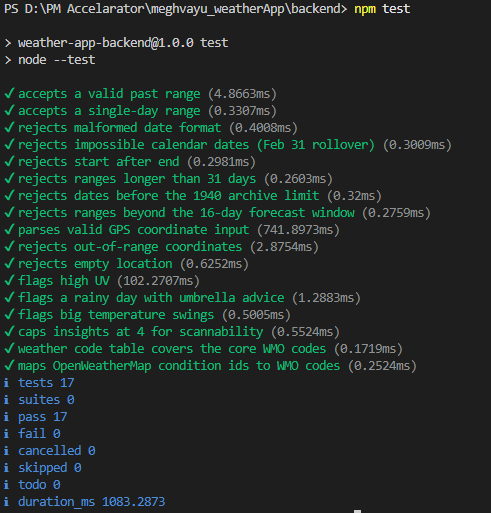
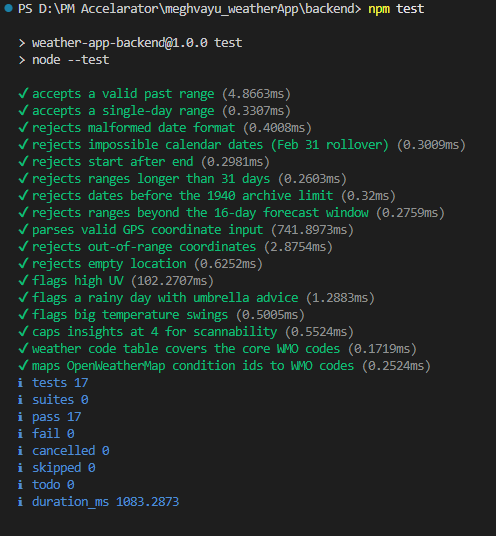
Footer to FastAPI, README updates, pytest screenshot

diff --git a/frontend/app/page.js b/frontend/app/page.js
@@ -62,8 +62,7 @@ export default function Home() {
         )}
 
         <footer className="ink-soft mt-10 pb-4 text-center text-xs">
-          Built with Next.js, Express, SQLite · Weather data from Open-Meteo ·
-          Geocoding by OpenStreetMap Nominatim
+          Built with Next.js, FastAPI, SQLite · Weather data from Open-Meteo · Geocoding by OpenStreetMap Nominatim
         </footer>
       </div>
 

diff --git a/README.md b/README.md
@@ -6,12 +6,14 @@ Built by: **Leela Satya Kartheek Raja**
 
 A full-stack weather application: real-time conditions and a 5-day forecast on the frontend, plus a REST API with database persistence (CRUD), validation, multi-format export, and additional API integrations on the backend. *MeghVayu* means "cloud and wind" in Telugu.
 
-**Stack:** Next.js (JavaScript) frontend + **Python (FastAPI)** backend with SQLite, as required for the Full Stack track. An equivalent Node/Express implementation of the same API is included in `backend-node/` for reference.
+**Stack:** Next.js (JavaScript) frontend + **Python (FastAPI)** backend with SQLite, as required for the Full Stack track. An equivalent Node/Express implementation of the same API is included in `backend-node/`: both backends expose identical endpoints and JSON shapes, pass the same 17-test suite, and can be swapped without touching the frontend.
 
 ## 🔗 Live demo
 
 - **App:** [meghvayu](https://meghvayu.vercel.app/)
-- **API health check:** [API Health Check](https://meghvayu-weatherapp.onrender.com/api/health)
+<!-- - **API health check:** [API Health Check for backend-node](https://meghvayu-api.onrender.com/api/health) -->
+- **API health check:** [API Health Check for backend](https://meghvayu-api.onrender.com/api/health)
+- **API docs (auto-generated by FastAPI):** [meghvayu-api.onrender.com/docs](https://meghvayu-api.onrender.com/docs)
 - **Demo video:** ADD_YOUR_VIDEO_LINK
 - The live deployment has both optional integrations enabled: OpenWeatherMap fallback and YouTube video listings.
 
@@ -30,7 +32,7 @@ A full-stack weather application: real-time conditions and a 5-day forecast on t
 
 ## Smart Insights engine
 
-The backend includes a rule-based insights engine (`backend/services/insights.js`) that analyzes
+The backend includes a rule-based insights engine (`backend/services/insights.py`) that analyzes
 live forecast data and generates actionable traveler advice, the "what's not obvious" thinking
 the assessment asks for:
 
@@ -55,8 +57,11 @@ weather summaries as a next step.
 ##### Weather history : CRUD with database persistence and exports
 ![CRUD history and exports](screenshots/crud.png)
 
-##### 17 passing unit tests
-![17 passing unit tests](screenshots/tests.png)
+##### 17 passing unit tests, Python backend (pytest)
+![Python tests](screenshots/pytest.png)
+
+##### 17 passing unit tests, Node reference backend (node:test)
+![Node tests](screenshots/tests.png)
 
 ----
 
@@ -104,6 +109,14 @@ npm run dev
 Open http://localhost:3000
 
 Optional: copy `frontend/.env.local.example` to `.env.local` to change the backend URL. Set `OPENWEATHER_API_KEY` and/or `YOUTUBE_API_KEY` in the backend environment to enable the optional integrations.
+
+**Alternative: Node.js reference backend** (same port, same API; the frontend works unchanged):
+```bash
+cd backend-node
+npm install
+npm start
+```
+Run either backend, not both at once (they share port 4000).
 
 ---
 
@@ -161,6 +174,12 @@ backend/                   Python / FastAPI (primary)
   tests/                   Unit tests (pytest)
   requirements.txt
 backend-node/              Node.js / Express reference implementation of the same API
+  server.js                Express app + central error handling
+  db.js                    SQLite (better-sqlite3) schema + connection
+  services/                geocode, weather (retry/cache), openweather (fallback), insights
+  routes/                  weather, records (CRUD), export, extras
+  tests/                   Unit tests (node:test)
+  package.json
 frontend/
   app/                     Next.js app router pages + condition-driven theming
   components/              WeatherPanel, RecordsPanel (CRUD UI), WeatherEffects, shared lib
@@ -175,11 +194,19 @@ frontend/
 
 ## Testing
 
+Python backend (primary):
 ```bash
 cd backend
 pytest
 ```
-17 tests cover date-range validation (format, impossible dates like Feb 31, range limits, archive/forecast windows), GPS coordinate parsing, the insights engine, and the fallback provider's condition-code mapping. The Node reference implementation has an equivalent suite (`cd backend-node && npm test`).
+
+Node reference backend:
+```bash
+cd backend-node
+npm test
+```
+
+Each suite has 17 tests covering date-range validation (format, impossible dates like Feb 31, range limits, archive/forecast windows), GPS coordinate parsing, the insights engine, and the fallback provider's condition-code mapping. Keeping both suites identical is how the Python port was verified against the original Node implementation.
 
 ## About PM Accelerator
 
